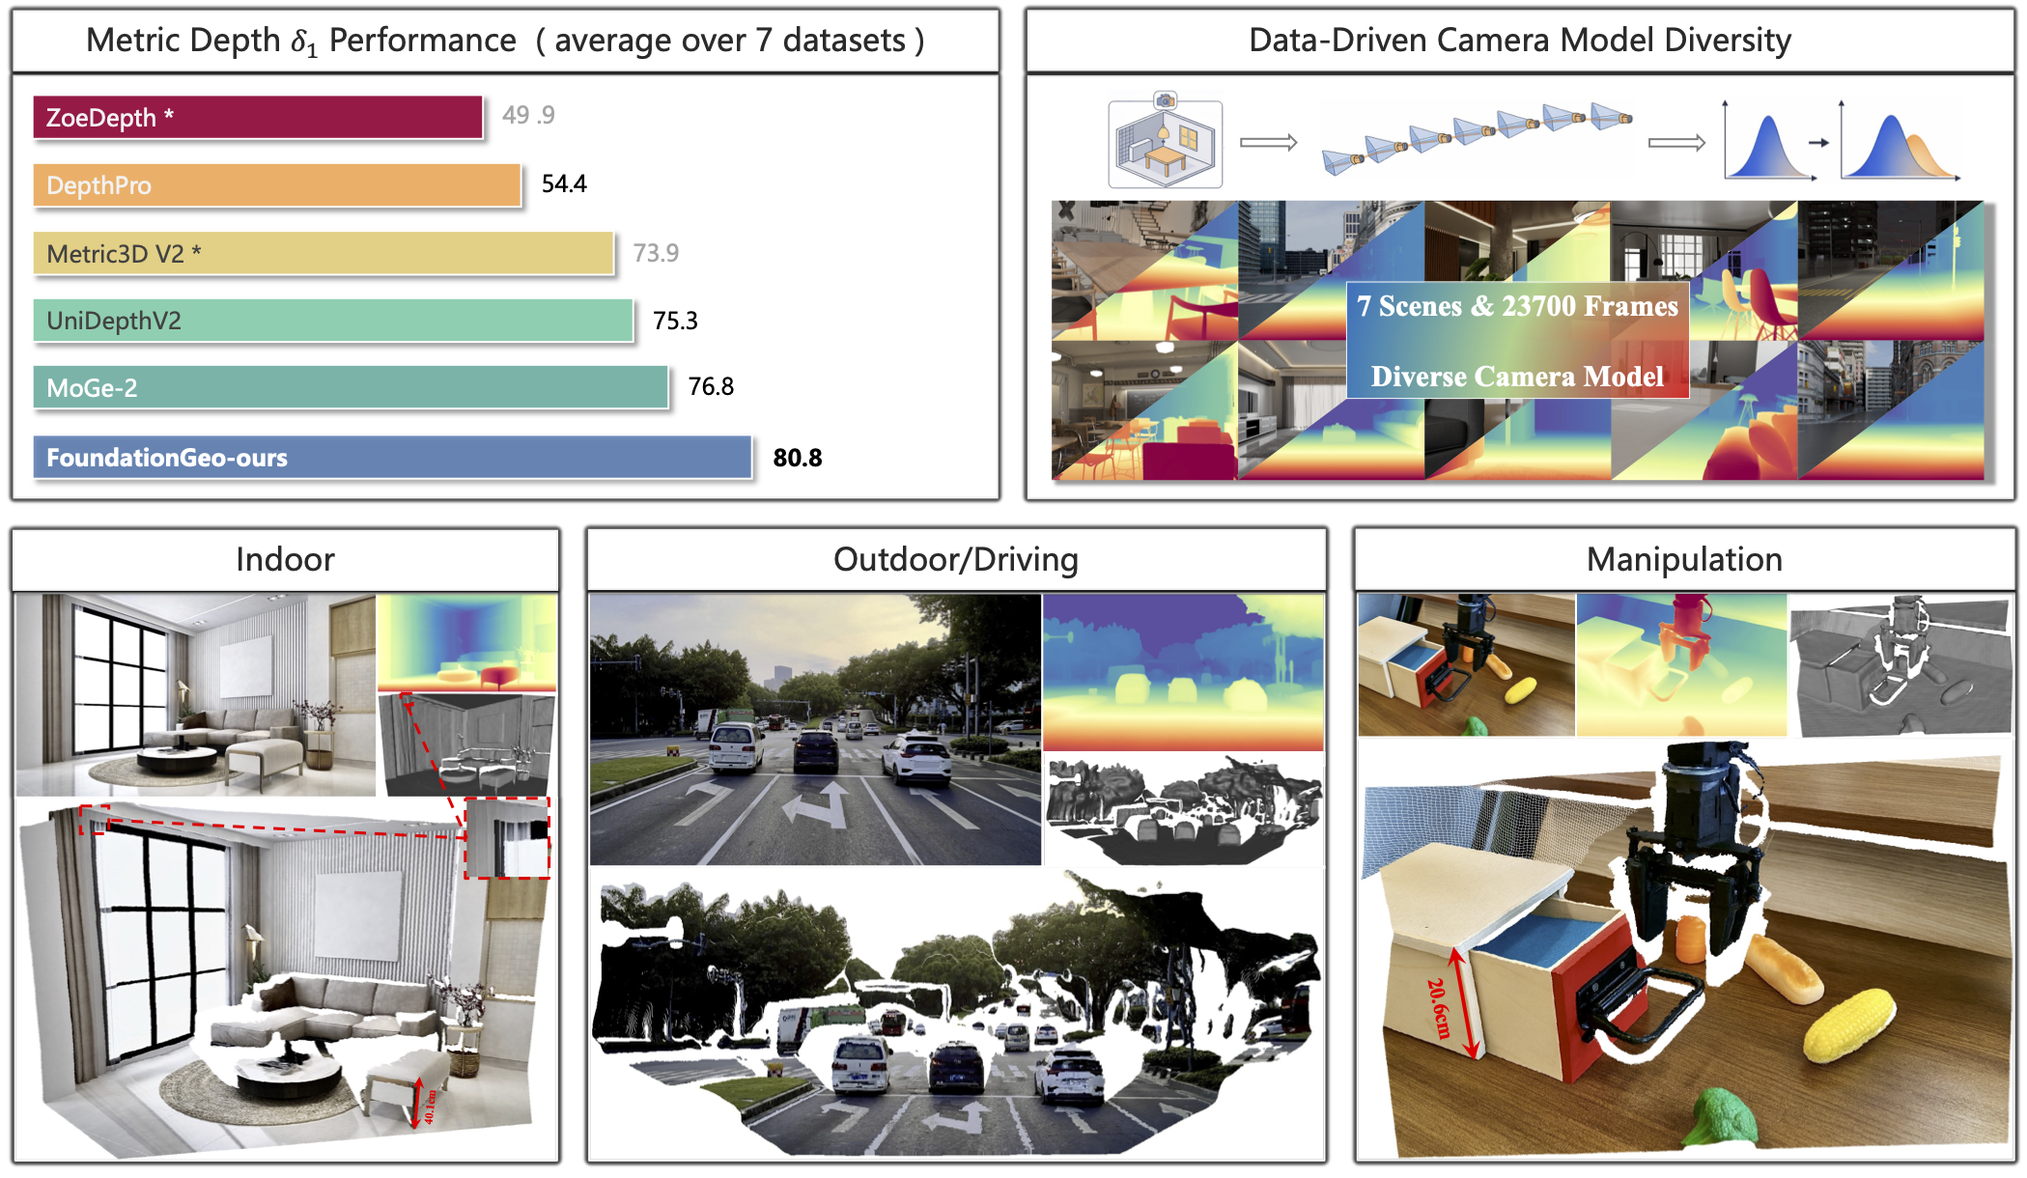
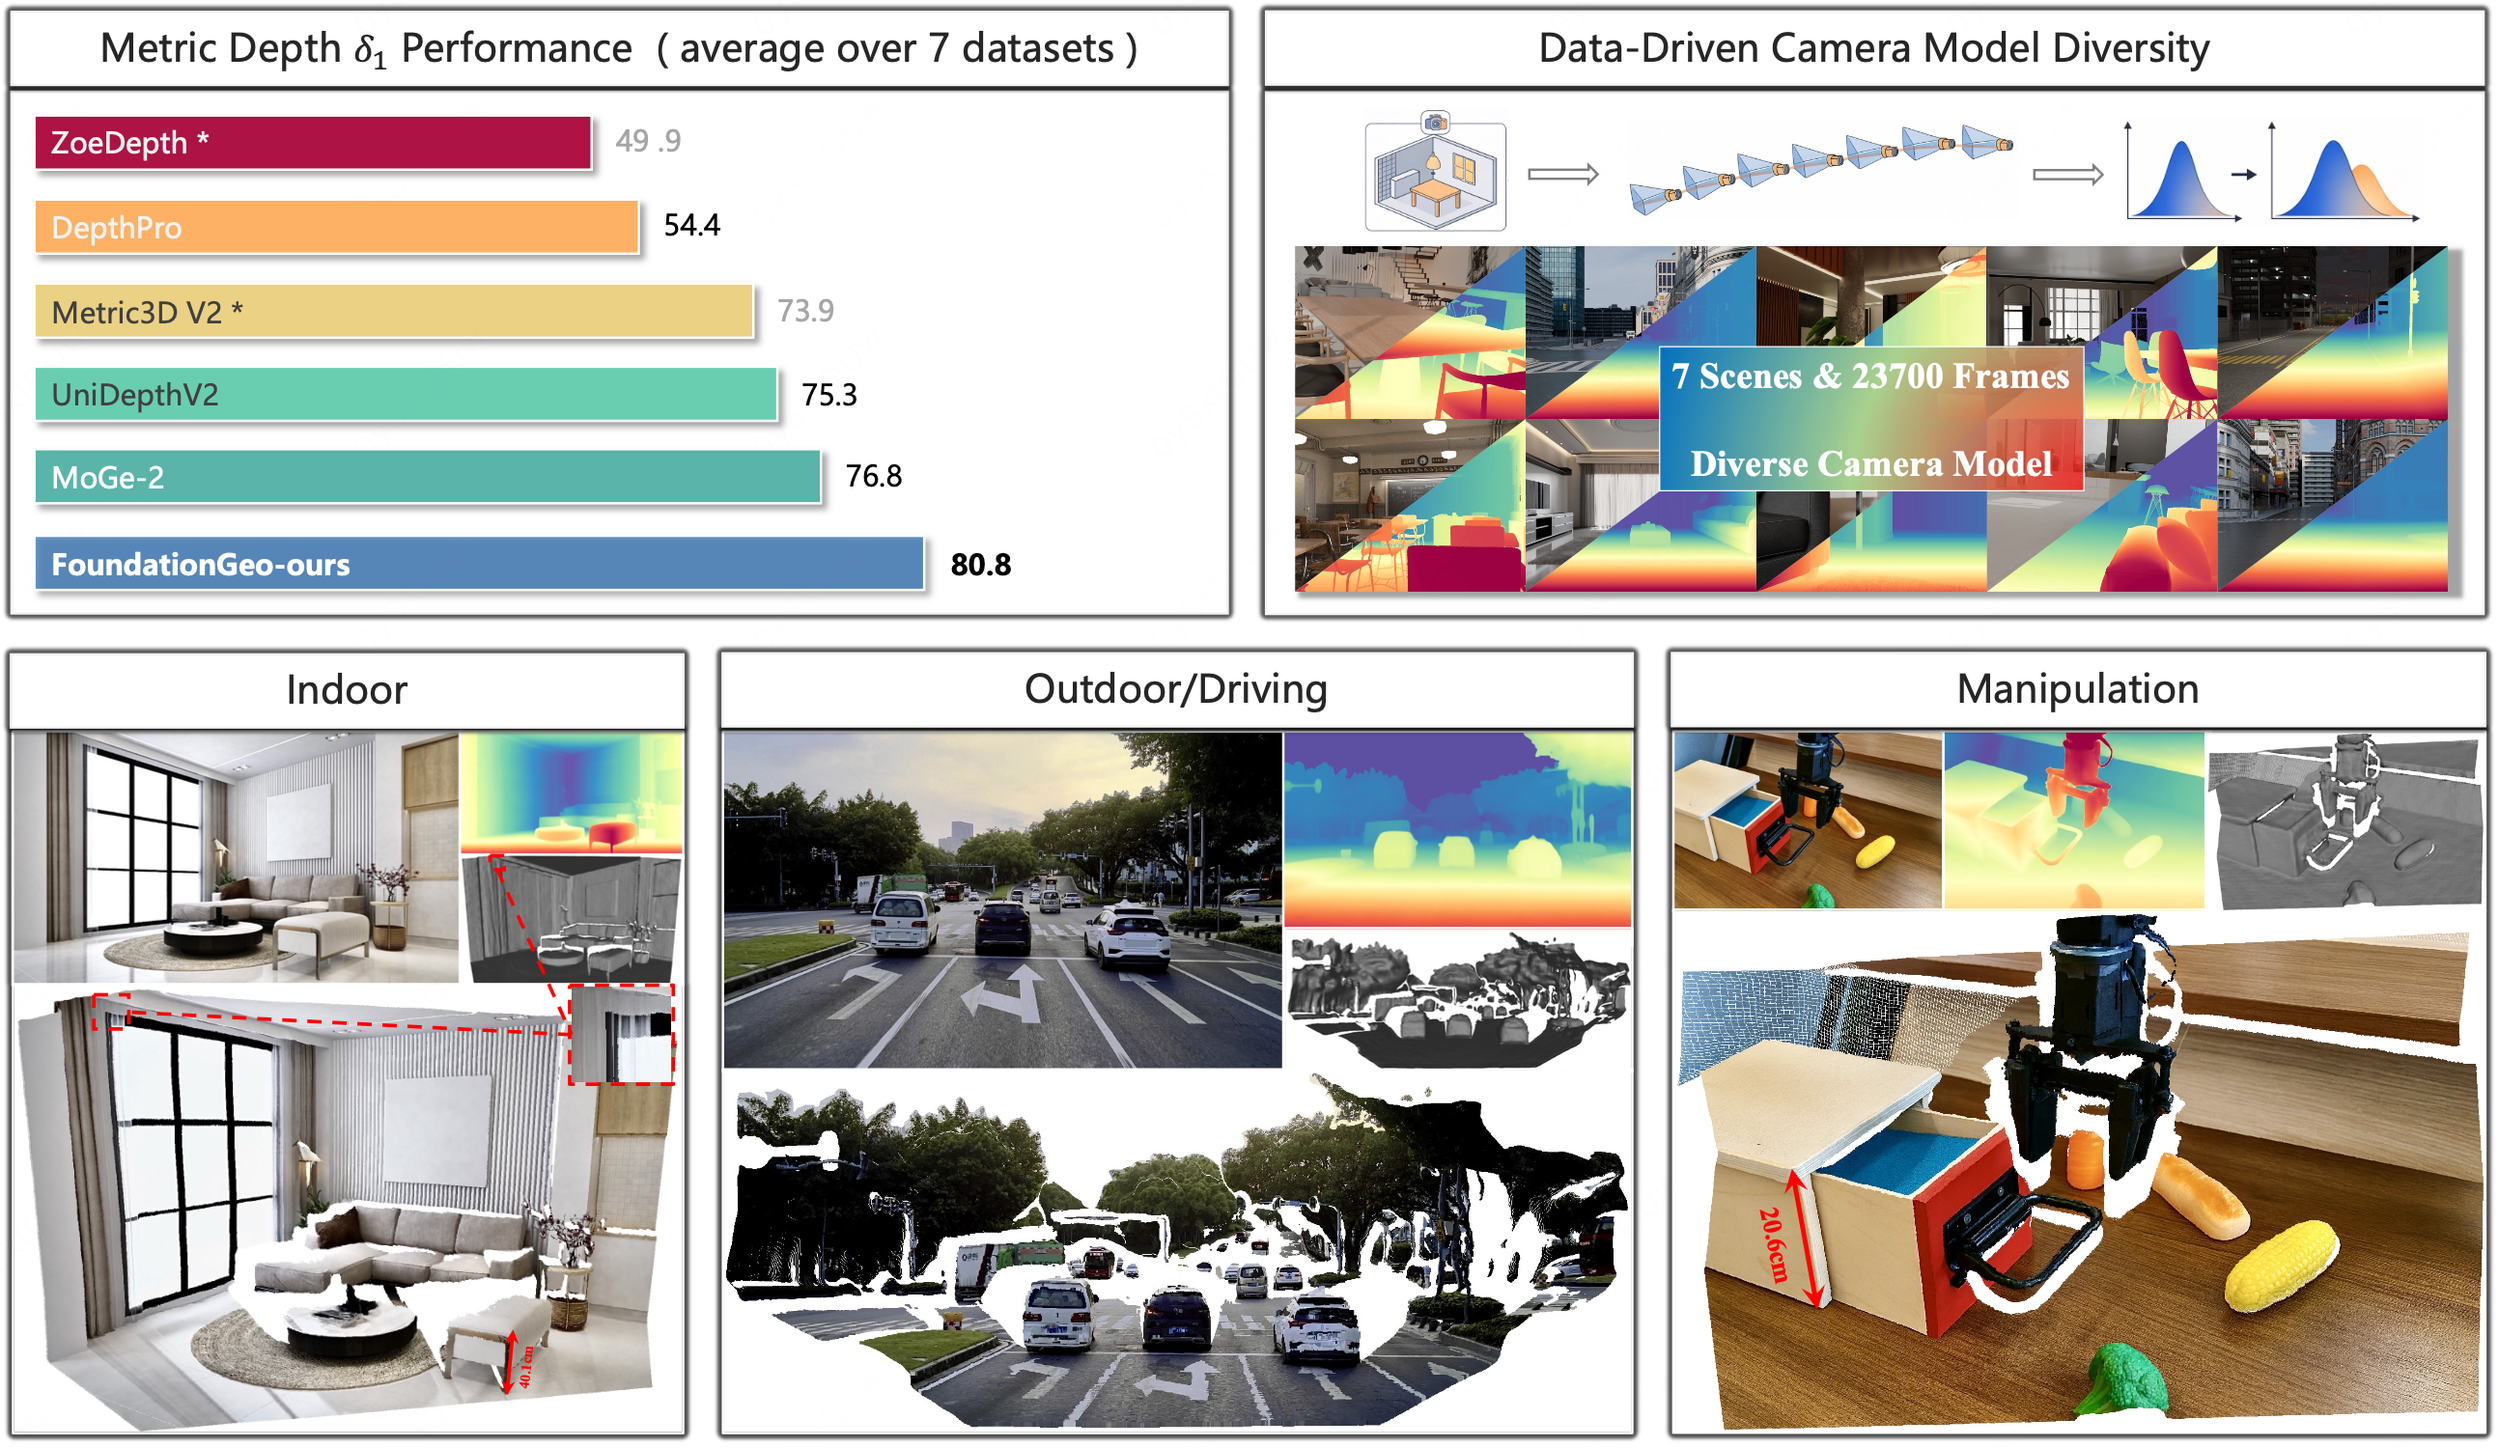
update

diff --git a/index.html b/index.html
@@ -24,7 +24,7 @@
   <meta name="viewport" content="width=device-width, initial-scale=1">
 
 
-  <title>FoundationGeo: Learning Pixel-Wise Scale Fields for Monocular Metric Geometry</title>
+  <title>FoundationGeo: Learning Pixel-Wise Spatial Fields for Monocular Metric Geometry</title>
   <!-- <link rel="icon" type="image/x-icon" href="static/images/favicon.ico"> -->
   <link href="https://fonts.googleapis.com/css?family=Google+Sans|Noto+Sans|Castoro"
   rel="stylesheet">
@@ -203,7 +203,8 @@
         <h2 class="title is-3">Abstract</h2>
         <div class="content has-text-justified">
           <p>
-            Estimating metric 3D geometry from a single RGB image remains an open challenge, as perspective projection removes absolute scale information. Recent foundation models have achieved highly accurate relative depth through large-scale pretraining, while metric estimation, which recovering depth in real-world units, still lags far behind due to camera ambiguities and data scarcity. We revisit this problem by asking: can the strong structural priors of relative models be effectively repurposed for accurate metric prediction? We present <b>FoundationGeo</b>, with two-stage training strategy that explicitly bridges the relative–metric divide. In the first stage, a DINOv3-vitl backbone is trained with global and multi-scale geometric constraints over a curated 9.1M sample dataset spanning synthetic, indoor, and outdoor scenes to achieve high-fidelity relative geometry. In the second stage, a pixel-level scale field is introduced to learn spatially varying scale factors, jointly optimized through coupled metric–relative objectives with a decoupled scale field loss for stable training. FoundationGeo attains state-of-the-art zero-shot performance across nine datasets on both metric depth and metric point map benchmarks, while maintaining strong relative consistency. Further analyses show that incorporating sparse metric cues, known intrinsics or domain-specific fine-tuning yields additional gains. In particular, with 3000 sparse metric priors, our predictions can almost match the performance of relative results.          </p>
+          We present FoundationGeo, a two-stage framework that explicitly bridges relative and metric prediction via spatial calibration and principled data design. Stage 1 learns a high-fidelity, affine-invariant geometry model by initializing with DINOv3 and training on a curated 10.2M-sample multi-domain corpus with complementary local-detail supervision, yielding sharp boundaries and strong cross-domain generalization. Stage 2 moves beyond global scaling by introducing lightweight pixel-wise calibration fields for metric estimation: a scale field for spatially varying metric alignment and a ray-direction correction field that mitigates directional bias in point-map geometry, together producing metrically consistent 3D point maps. Beyond model design, we identify camera intrinsic coverage, especially focal length distribution mismatch between training and test data, as a key bottleneck for zero-shot metric generalization: performance drops sharply when test intrinsics fall outside the training distribution. To address this, we synthesize additional training data across diverse focal lengths using a Blender-based data engine, repairing under-covered focal regimes and improving robustness under intrinsic shift. Extensive zero-shot evaluations across seven benchmarks show that FoundationGeo significantly strengthens cross-domain robustness, staying near the top across diverse domains while avoiding the sharp cross-domain performance drops observed in other methods. This consistency translates into the best overall performance, surpassing heavier baselines by over 5.2% on average.
+          </p>
         </div>
       </div>
     </div>
@@ -220,7 +221,7 @@
         <img src="static/images/Structure.png" alt="Structure of FoundationGeo" style="width: 100%; max-width: 2200px;"/>
         <div class="content has-text-justified">
           <p>
-            <b>FoundationGeo architecture.</b> A ViT encoder with a lightweight up-sampling convolutional decoder first learns a high-fidelity <i>relative geometry</i> branch that predicts a validity mask <b>M̂</b> and an affine-invariant point map <b>P̂</b>. In the second stage, a pixel-level scale field <b>ŝ</b> converts these relative predictions into metric geometry through detail-aware rescaling, yielding the metric-scale point <b>P̃</b>. Metric depth and surface normals are subsequently derived from <b>P̃</b>.
+            <b>FoundationGeo architecture.</b> A ViT encoder with a lightweight up-sampling convolutional decoder first learns a high-fidelity <i>relative geometry</i> branch, predicting a validity mask M̂ and an affine-invariant point map P̂. In the second stage, we first apply a ray-direction correction field Δ̂ to P̂ to obtain a direction-refined relative point map, and then use a spatial scale field Ŝ to perform spatially varying rescaling, producing a metric point map P̃. Metric depth and surface normals are subsequently derived from P̃.
           </p>
         </div>
       </div>
@@ -281,7 +282,7 @@
         <img src="static/images/Performance.png" alt="Results" style="max-width: 1800px; width: 100%; height: auto;"/>
         <div class="content has-text-justified">
           <p>
-            Quantitative results for metric depth and metric point map estimation. <i>AbsRel</i> and δ₁ are in percentage. The best values are highlighted in <b>bold</b>, and the second-best ones are <u>underlined</u>. * means we use GT intrinsic as input. <span style="color: #808080;">Gray numbers</span> denote models trained on respective benchmarks or need GT intrinsics, thus excluded from ranking.
+            Quantitative results for metric and relative depth estimation. <i>AbsRel</i> and δ<sub>1</sub> are in percentage. The best values are highlighted in <b>bold</b>, and the second-best ones are <u>underlined</u>. * means model needs GT intrinsic as input. <span style="color: #808080;">Gray numbers</span> denote models trained on respective benchmarks or need GT intrinsics, thus excluded from ranking.
           </p>
         </div>
       </div>
